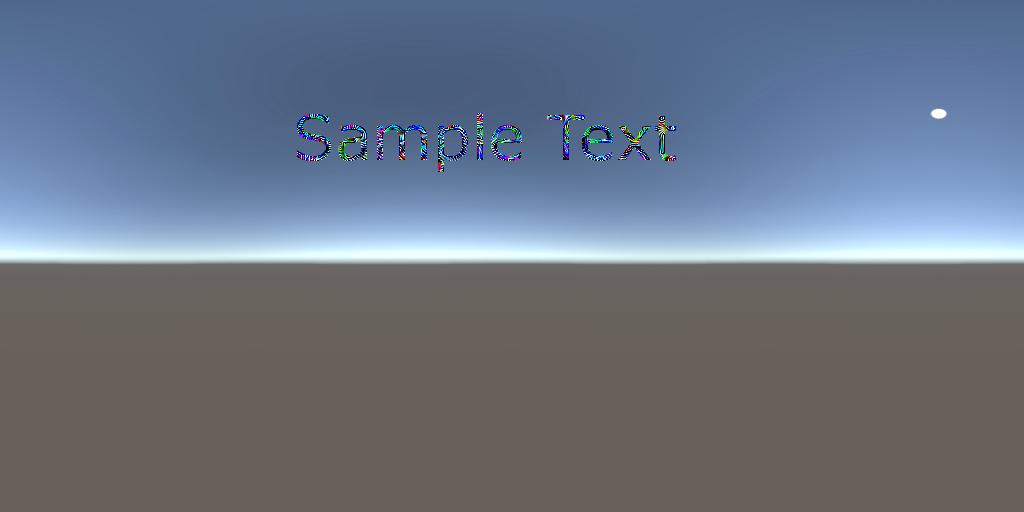
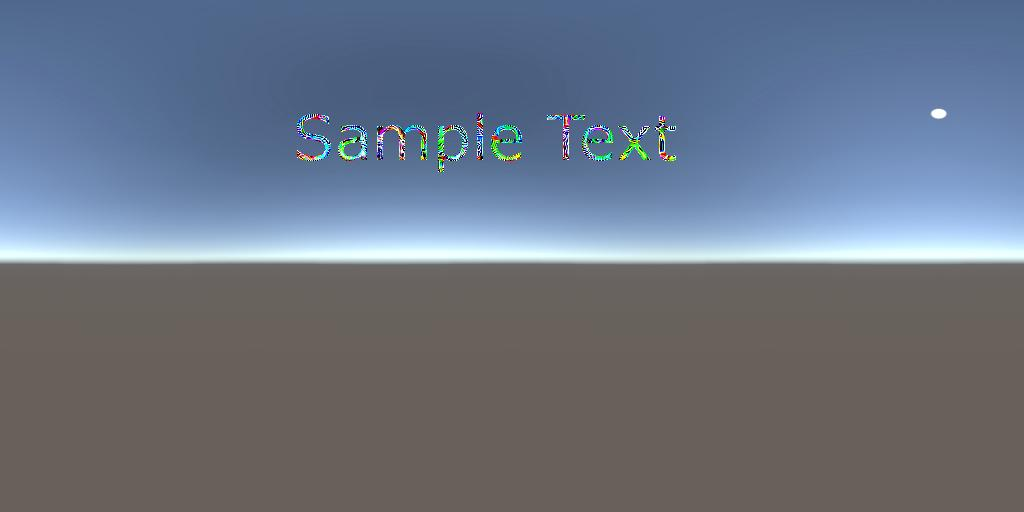
Set all non label pixels to -1 but the artifact issue persists

Changed region(s): [[0.2812, 0.2188, 0.6562, 0.3438]]

diff --git a/Assets/ConnectionTest/LabelColorGenerationTest.py b/Assets/ConnectionTest/LabelColorGenerationTest.py
@@ -33,16 +33,13 @@ labelMaskImg = (1/255)*np.asarray(Image.open(labelMask_path))
 MAX_ITER = 1000
 costList = []
 
-
 # Convert the image with the background only to a tensor
 backgroundImgAsTensor = lpips.im2tensor(lpips.load_image(b_path))
 
 # The predicted image
 pred = Variable(lpips.im2tensor(lpips.load_image(b_w_l_path)), requires_grad=True)
 
-# label mask
-#labelMaskAsTensor = torch.from_numpy(labelMaskImg).reshape(pred.shape).type(torch.float) #somehow this is completely black when I use lpips.im2tensor
-#labelMaskAsTensor = Variable(lpips.im2tensor(lpips.load_image(labelMask_path)), requires_grad= False) # mask should not be modified in the optimization process 
+# label mask (boolean mask with True where label pixels are)
 labelMaskAsTensor = lpips.im2tensor(lpips.load_image(labelMask_path)) > 0
 
 # stochastic gradient descent-based optimizer
@@ -52,15 +49,18 @@ labelMaskAsTensor = lpips.im2tensor(lpips.load_image(labelMask_path)) > 0
 # Adam optimizer, original lr=1e-4
 optimizer = torch.optim.Adam([pred,], lr=0.01, betas=(0.9, 0.999))
 
+distanceThreshold = 0.23
+
 # Optimize
 for iter in range(MAX_ITER): 
     if type(backgroundAndLabelImg) == torch.Tensor:
         backgroundAndLabelImg = backgroundAndLabelImg.numpy()
 
-    maskedLabelTensor = torch.mul(pred, labelMaskAsTensor)
+    # Apply the boolean mask for label pixels
+    # maskedLabelTensor = torch.mul(pred, labelMaskAsTensor)
+    maskedLabelTensor = pred.where(labelMaskAsTensor, -1) # sets all non-label pixels to 1
 
-    # Calculate the LPIPS loss (1 - LPIPS distance between the current backgroundAndLabelImage and the backgroundImage)
-    # LPIPSLoss = 1 - loss_fn.forward(lpips.im2tensor(backgroundAndLabelImg).cuda(), backgroundImgAsTensor.cuda())
+    # Calculate the LPIPS loss: -1 * LPIPS distance between the current backgroundAndLabelImage and the backgroundImage
     LPIPSLoss = loss_fn.forward(maskedLabelTensor.cuda(), backgroundImgAsTensor.cuda())
     neg_loss = - LPIPSLoss
     
@@ -77,25 +77,18 @@ for iter in range(MAX_ITER):
 
     # Print out losses/distances
     if iter % 100 == 0:
-         print('iter %d, dist %.3g' % (iter, LPIPSLoss.view(-1).data.cpu().numpy()[0]))
+        print('iter %d, dist %.3g' % (iter, LPIPSLoss.view(-1).data.cpu().numpy()[0]))
 
     # Save the output image
-    if iter == MAX_ITER - 1:
-         print('Reached the last iteration')
-         pred.data = torch.clamp(pred.data, -1, 1)
-         pred_img = lpips.tensor2im(pred.data)
-         print(type(pred_img))
-         output_path = "./test2_adam.jpg"
-         Image.fromarray(pred_img).save(output_path)
+    if (iter == MAX_ITER - 1): 
+        print('Reached the last iteration')
+        pred.data = torch.clamp(pred.data, -1, 1)
+        pred_img = lpips.tensor2im(pred.data)
+        print(type(pred_img))
+        output_path = "./final_result_adam.jpg"
+        Image.fromarray(pred_img).save(output_path)
+        break
 
         #  # Check the size of the image after backpropping
         #  width, height = Image.open(output_path).size
         #  print(f"Image width: {width}px, Image height: {height}px")
-
-
-
-# Save the output image
-# if type(backgroundAndLabelImg) == torch.Tensor:
-#         backgroundAndLabelImg = backgroundAndLabelImg.numpy()
-# finalBackgroundAndLabel = Image.fromarray(backgroundAndLabelImg)
-# finalBackgroundAndLabel.save("finalBackgroundAndLabel.jpg")
